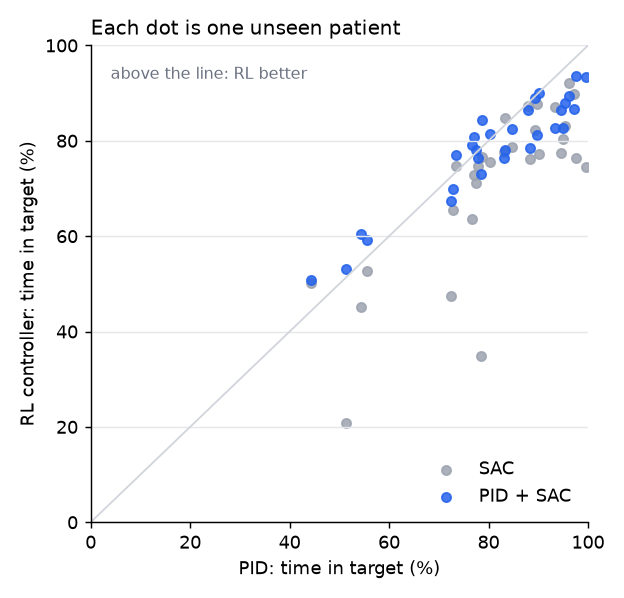
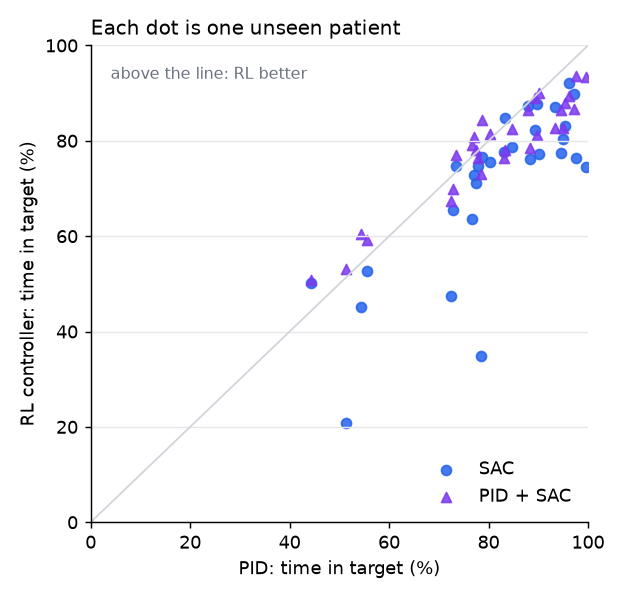
Same colour per controller in every figure

diff --git a/benchmark.py b/benchmark.py
@@ -20,8 +20,8 @@ from patients import test_patients, describe
 from pid_baseline import load_pid
 from residual import ResidualPolicy
 
-C = {'PID': '#EA580C', 'SAC': '#9CA3AF', 'PID + SAC': '#2563EB'}
-C_TARGET, MUTED = '#16A34A', '#6B7280'
+from style import COLORS as C, TARGET as C_TARGET
+MUTED = '#6B7280'
 ROWS = [('time_in_target', 'Time in target, BIS 40-60 (%)'),
         ('MDAPE', 'MDAPE, inaccuracy (%)'),
         ('MDPE', 'MDPE, bias (%)'),
@@ -114,7 +114,8 @@ def figure_paired(pp):
     ax.plot([0, 100], [0, 100], color='#D1D5DB', lw=1)
     for n in ('SAC', 'PID + SAC'):
         if n in pp:
-            ax.scatter(pp['PID'], pp[n], s=26, color=C[n], alpha=0.85, label=n)
+            ax.scatter(pp['PID'], pp[n], s=30, color=C[n], alpha=0.85, label=n,
+                       marker='o' if n == 'SAC' else '^')
     ax.set_xlabel('PID: time in target (%)'); ax.set_ylabel('RL controller: time in target (%)')
     ax.set_title('Each dot is one unseen patient', loc='left', fontsize=11)
     ax.text(4, 93, 'above the line: RL better', color=MUTED, fontsize=9)

diff --git a/make_video.py b/make_video.py
@@ -18,8 +18,8 @@ from patients import test_patients, describe
 from pid_baseline import load_pid
 from AnesthesiaEnv import EPISODE_MIN, stimulation_schedule
 
-C_SAC, C_PID = '#2563EB', '#EA580C'
-C_TARGET = '#16A34A'
+from style import COLORS, TARGET as C_TARGET
+C_PID = COLORS['PID']
 INK, MUTED, GRID = '#111827', '#6B7280', '#E5E7EB'
 
 
@@ -46,6 +46,7 @@ def zone(b):
 
 def render(sac_tr, pid_tr, patient, out_mp4, out_gif, rl_name='SAC', rl_long='SAC (reinforcement learning)', stride_mp4=1, stride_gif=3):
     S, P = arrays(sac_tr), arrays(pid_tr)
+    C_SAC = COLORS[rl_name]
     n = len(S['t'])
     plt.rcParams.update({'font.family': 'DejaVu Sans', 'font.size': 11, 'axes.edgecolor': GRID,
                          'axes.labelcolor': MUTED, 'xtick.color': MUTED, 'ytick.color': MUTED})

diff --git a/style.py b/style.py
@@ -1,0 +1,8 @@
+"""One colour per controller, used by every figure and the video."""
+
+COLORS = {
+    'PID': '#EA580C',        # orange
+    'SAC': '#2563EB',        # blue
+    'PID + SAC': '#7C3AED',  # purple
+}
+TARGET = '#16A34A'
